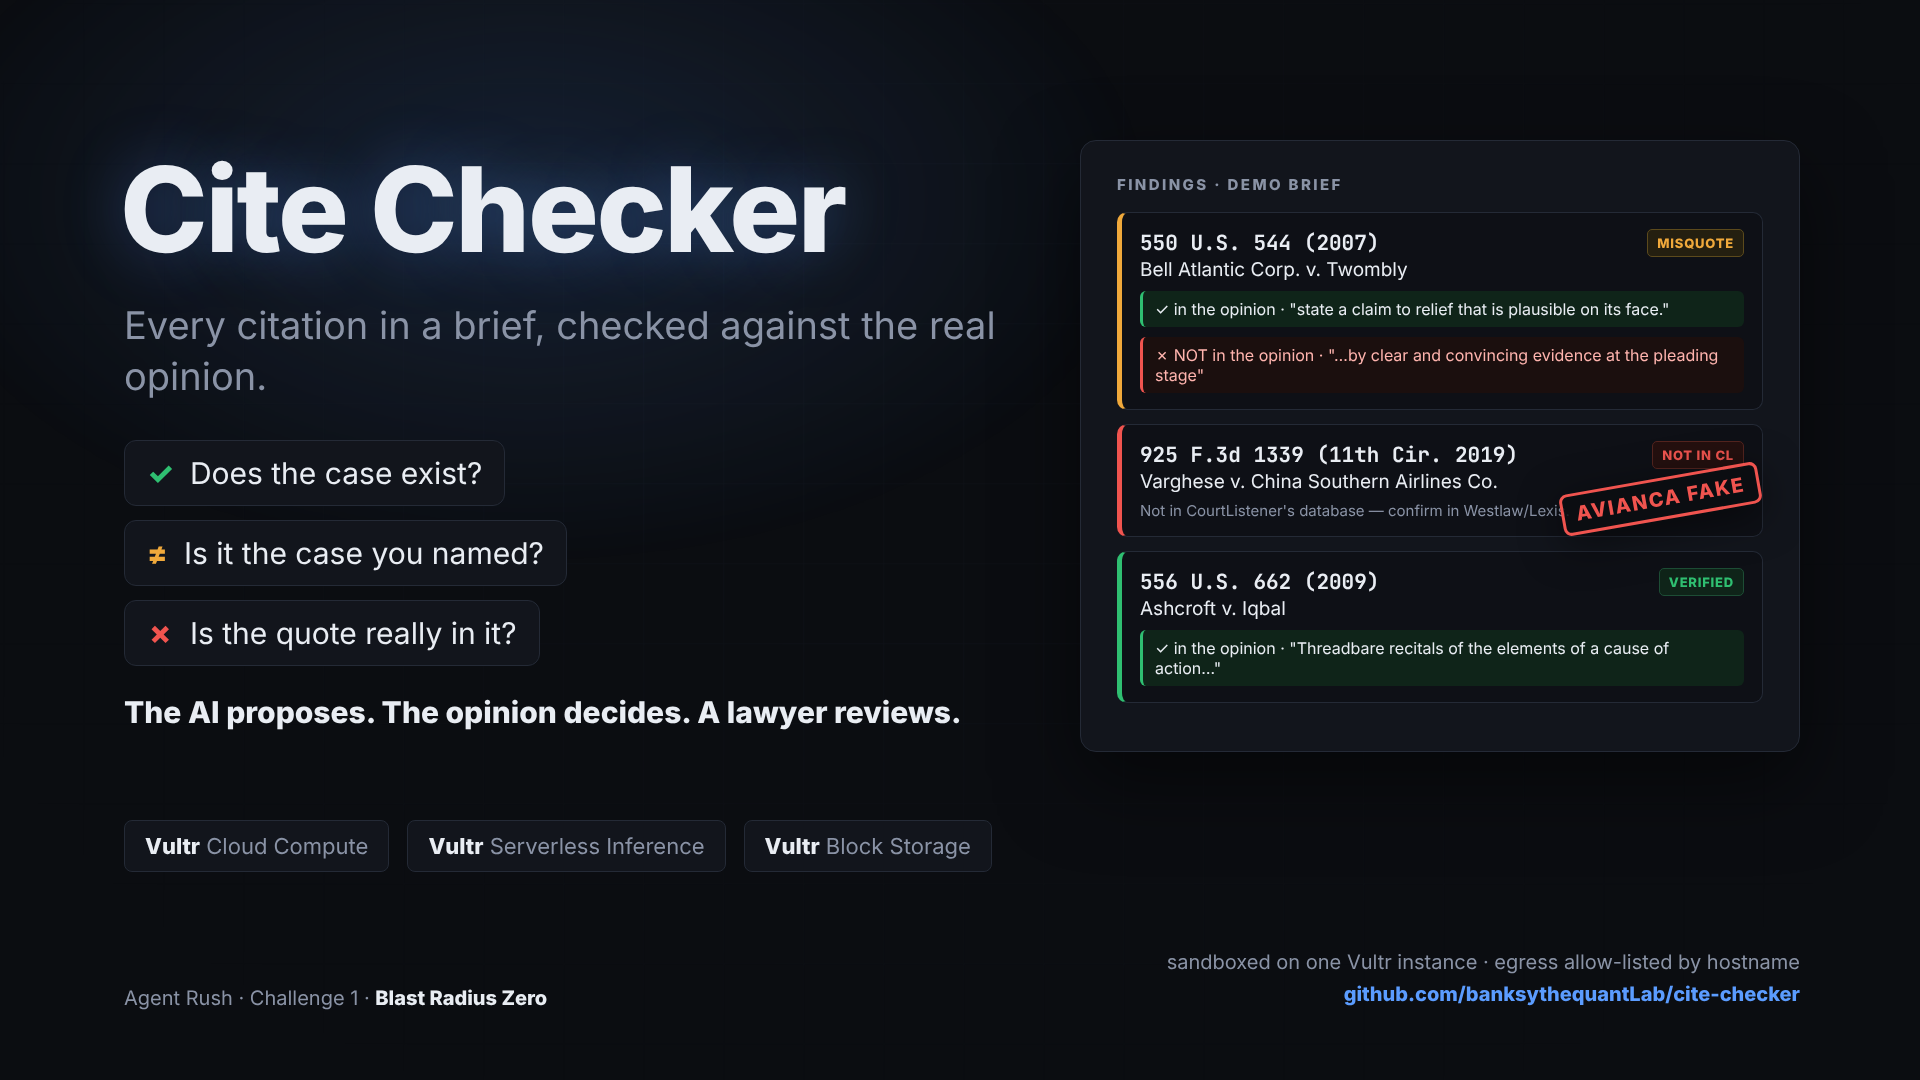
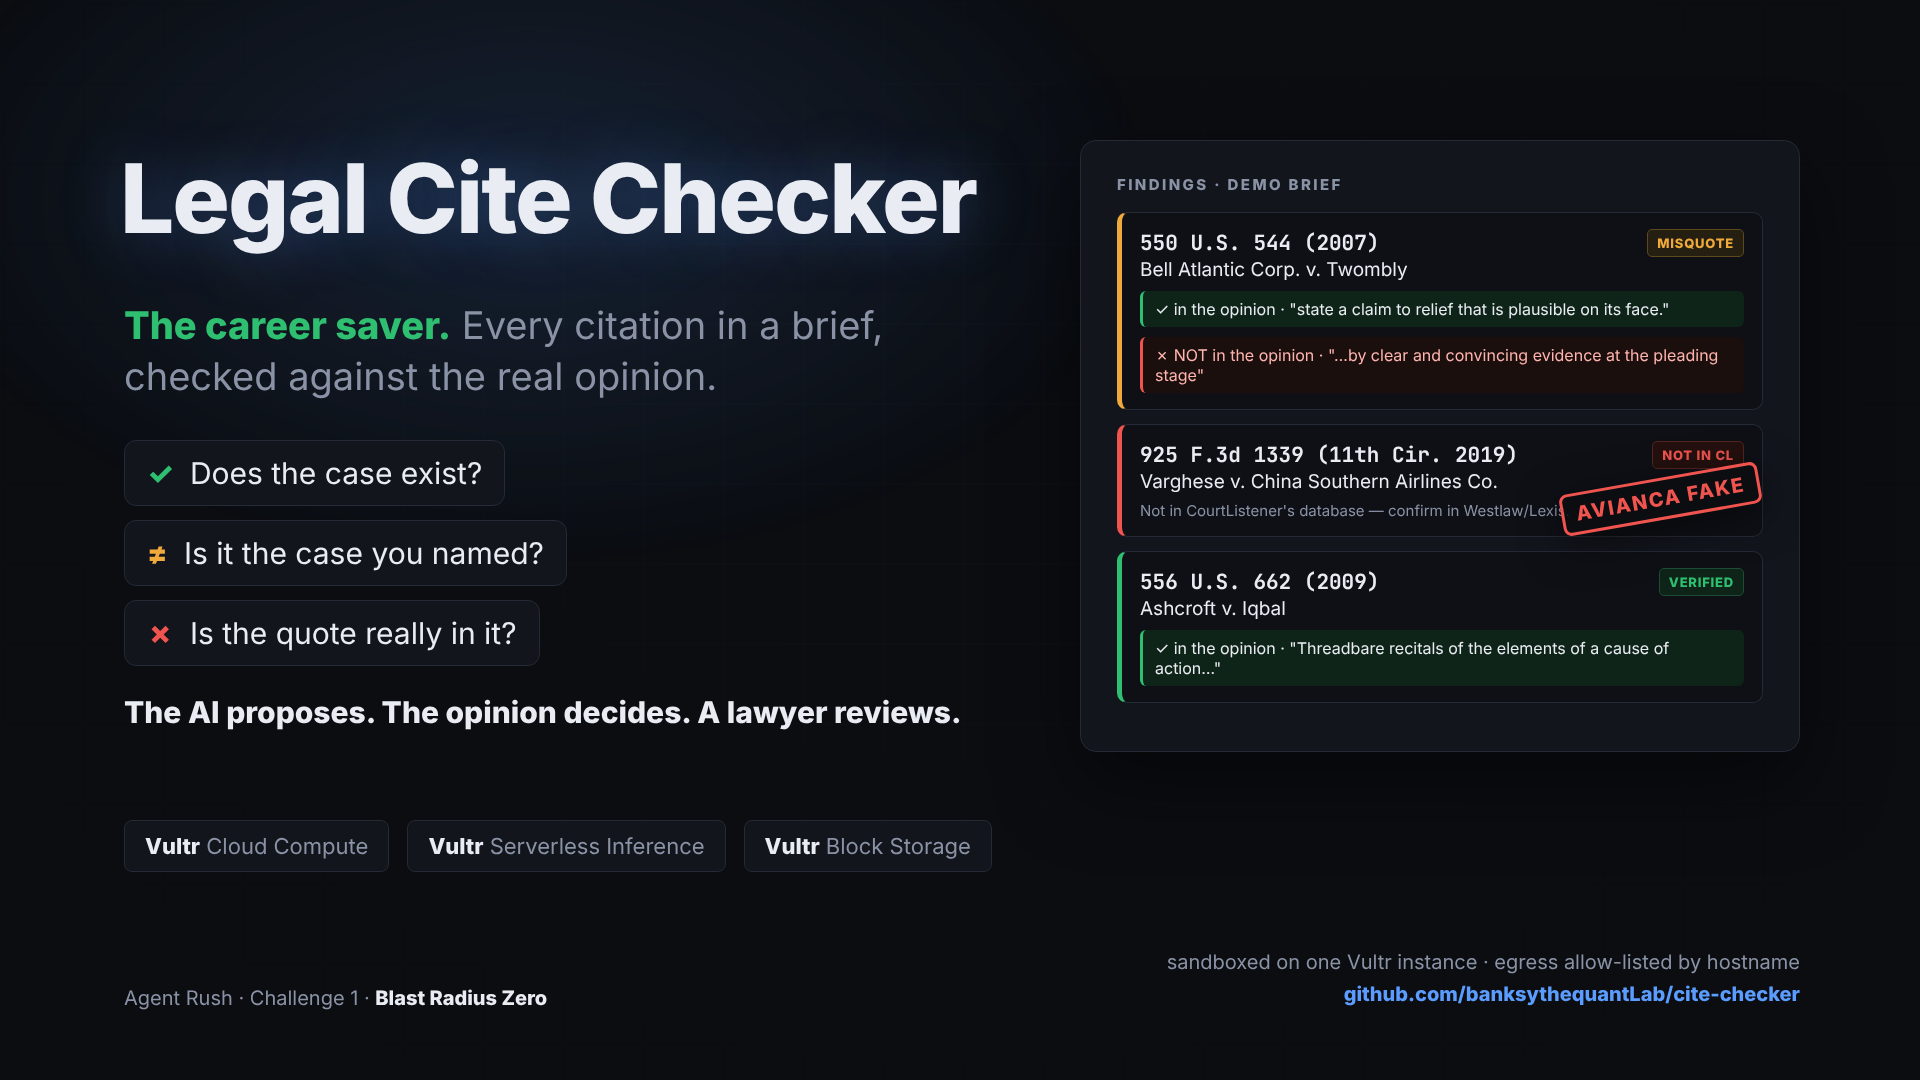
Rename to Legal Cite Checker (the career saver); light/dark theme toggle
Claude-Session: https://claude.ai/code/session_011e1en8GdjJwi9dHnhqS9BS

Changed region(s): [[0.0625, 0.1528, 0.5312, 0.2444], [0.0625, 0.275, 0.5312, 0.3667]]

diff --git a/ui/index.html b/ui/index.html
@@ -3,38 +3,44 @@
 <head>
 <meta charset="utf-8">
 <meta name="viewport" content="width=device-width, initial-scale=1">
-<title>Cite Checker — every citation in a brief, checked against the real opinion</title>
+<title>Legal Cite Checker — the career saver · every citation in a brief, checked against the real opinion</title>
 <meta name="description" content="Paste a brief. Every case cite is checked against the real opinion: does it exist, is it the case you named, is the quote really in it. The AI proposes, the opinion decides, a lawyer reviews.">
 <link rel="canonical" href="https://cite.nota.lawyer/">
 <meta property="og:type" content="website">
-<meta property="og:site_name" content="Cite Checker">
+<meta property="og:site_name" content="Legal Cite Checker">
 <meta property="og:url" content="https://cite.nota.lawyer/">
-<meta property="og:title" content="Cite Checker — every citation in a brief, checked against the real opinion">
+<meta property="og:title" content="Legal Cite Checker — the career saver">
 <meta property="og:description" content="Does the case exist? Is it the case you named? Is the quote really in it? One click runs a demo brief seeded with the Avianca fabrications.">
 <meta property="og:image" content="https://cite.nota.lawyer/og.png">
 <meta property="og:image:width" content="1200">
 <meta property="og:image:height" content="630">
-<meta property="og:image:alt" content="Cite Checker: findings for a demo brief — a misquote, a citation not in the database, a verified quote">
+<meta property="og:image:alt" content="Legal Cite Checker: findings for a demo brief — a misquote, a citation not in the database, a verified quote">
 <meta name="twitter:card" content="summary_large_image">
-<meta name="twitter:title" content="Cite Checker — every citation in a brief, checked against the real opinion">
+<meta name="twitter:title" content="Legal Cite Checker — the career saver">
 <meta name="twitter:description" content="Does the case exist? Is it the case you named? Is the quote really in it? Try the one-click demo.">
 <meta name="twitter:image" content="https://cite.nota.lawyer/og.png">
 <style>
 :root{--bg:#0b0d11;--panel:#12151c;--panel2:#171b24;--line:#242a36;--ink:#e9edf3;--dim:#8a93a6;
   --accent:#5b9cff;--ok:#2fbf71;--warn:#f0a93b;--bad:#f0544f;--gold:#d8b25a;
-  --mono:ui-monospace,SFMono-Regular,Menlo,Consolas,monospace}
+  --mono:ui-monospace,SFMono-Regular,Menlo,Consolas,monospace;
+  --field:#0e1016;--okbg:#0f2419;--okline:#1d4d35;--badbg:#24100f;--badline:#53241f;--warnbg:#241f10;--warnline:#5c4a1c;--accbg:#0d1626;--accline:#1e3a66;
+  --btn:#14284a;--btnink:#cfe0ff;--btnline:#1e3a66;--quotebad:#ffb4ae;color-scheme:dark}
+:root[data-theme="light"]{--bg:#f6f7fa;--panel:#ffffff;--panel2:#eef1f6;--line:#d9dee8;--ink:#15181f;--dim:#5b6472;
+  --accent:#2563eb;--ok:#15803d;--warn:#b45309;--bad:#dc2626;--gold:#92400e;
+  --field:#ffffff;--okbg:#ecfdf3;--okline:#86efac;--badbg:#fef2f2;--badline:#fca5a5;--warnbg:#fffbeb;--warnline:#fcd34d;--accbg:#eff6ff;--accline:#93c5fd;
+  --btn:#2563eb;--btnink:#ffffff;--btnline:#1d4ed8;--quotebad:#991b1b;color-scheme:light}
 *{box-sizing:border-box}
 body{margin:0;background:var(--bg);color:var(--ink);font:14px/1.55 -apple-system,BlinkMacSystemFont,"Segoe UI",Inter,sans-serif}
 header{padding:16px 24px;border-bottom:1px solid var(--line);background:var(--panel);display:flex;gap:14px;align-items:center;flex-wrap:wrap}
 h1{margin:0;font-size:15px;letter-spacing:.12em;text-transform:uppercase;font-weight:700}
 h1 em{color:var(--dim);font-weight:400;text-transform:none;letter-spacing:.01em;font-size:12.5px;margin-left:8px;font-style:normal}
 .pill{font:600 10.5px/1 var(--mono);padding:5px 9px;border-radius:99px;border:1px solid var(--line);color:var(--dim)}
-.pill.on{color:var(--ok);border-color:#1d4d35;background:#0f2419}.pill.off{color:var(--bad);border-color:#53241f;background:#24100f}
+.pill.on{color:var(--ok);border-color:var(--okline);background:var(--okbg)}.pill.off{color:var(--bad);border-color:var(--badline);background:var(--badbg)}
 main{max-width:1120px;margin:0 auto;padding:22px 24px;display:grid;grid-template-columns:minmax(0,440px) minmax(0,1fr);gap:20px}
 @media(max-width:920px){main{grid-template-columns:1fr}}
 h2{font-size:11px;letter-spacing:.11em;text-transform:uppercase;color:var(--dim);font-weight:700;margin:0 0 10px}
-textarea{width:100%;height:360px;background:#0e1016;color:var(--ink);border:1px solid var(--line);border-radius:8px;padding:11px;font:12px/1.5 var(--mono);resize:vertical}
-button{font:600 12.5px/1 inherit;padding:9px 14px;border-radius:7px;cursor:pointer;background:#14284a;color:#cfe0ff;border:1px solid #1e3a66}
+textarea{width:100%;height:360px;background:var(--field);color:var(--ink);border:1px solid var(--line);border-radius:8px;padding:11px;font:12px/1.5 var(--mono);resize:vertical}
+button{font:600 12.5px/1 inherit;padding:9px 14px;border-radius:7px;cursor:pointer;background:var(--btn);color:var(--btnink);border:1px solid var(--btnline)}
 button:hover{border-color:var(--accent)}button:disabled{opacity:.45;cursor:default}
 button.ghost{background:var(--panel2);color:var(--ink);border:1px solid var(--line)}
 .row{display:flex;gap:10px;align-items:center;flex-wrap:wrap}
@@ -42,15 +48,15 @@ button.ghost{background:var(--panel2);color:var(--ink);border:1px solid var(--li
 .card.VERIFIED{border-left-color:var(--ok)}.card.UNQUOTED{border-left-color:var(--accent)}
 .card.MISQUOTE,.card.WRONG_CASE{border-left-color:var(--warn)}.card.NOT_FOUND{border-left-color:var(--bad)}.card.AMBIGUOUS{border-left-color:var(--dim)}
 .badge{display:inline-block;font:700 10px/1 var(--mono);padding:4px 8px;border-radius:4px;border:1px solid var(--line);letter-spacing:.06em}
-.badge.VERIFIED{color:var(--ok);border-color:#1d4d35;background:#0f2419}
-.badge.UNQUOTED{color:var(--accent);border-color:#1e3a66;background:#0d1626}
-.badge.MISQUOTE,.badge.WRONG_CASE{color:var(--warn);border-color:#5c4a1c;background:#241f10}
-.badge.NOT_FOUND{color:var(--bad);border-color:#53241f;background:#24100f}
+.badge.VERIFIED{color:var(--ok);border-color:var(--okline);background:var(--okbg)}
+.badge.UNQUOTED{color:var(--accent);border-color:var(--accline);background:var(--accbg)}
+.badge.MISQUOTE,.badge.WRONG_CASE{color:var(--warn);border-color:var(--warnline);background:var(--warnbg)}
+.badge.NOT_FOUND{color:var(--bad);border-color:var(--badline);background:var(--badbg)}
 .badge.AMBIGUOUS{color:var(--dim)}
 .cite{font:700 13px/1.3 var(--mono)}.name{color:var(--ink)}.cl{color:var(--gold);font:12px/1.4 var(--mono)}
-.q{border-left:3px solid var(--ok);padding:6px 10px;margin:6px 0;background:#0f2419;border-radius:0 5px 5px 0;font:12px/1.45 var(--mono)}
-.q.bad{border-left-color:var(--bad);background:#1b0f0e;color:#ffb4ae}
-.q.sup{border-left-color:var(--accent);background:#0d1626}
+.q{border-left:3px solid var(--ok);padding:6px 10px;margin:6px 0;background:var(--okbg);border-radius:0 5px 5px 0;font:12px/1.45 var(--mono)}
+.q.bad{border-left-color:var(--bad);background:var(--badbg);color:var(--quotebad)}
+.q.sup{border-left-color:var(--accent);background:var(--accbg)}
 .note{color:var(--dim);font-size:12px;margin:4px 0}
 .kpis{display:flex;gap:8px;flex-wrap:wrap;margin-bottom:12px}
 .kpi{background:var(--panel);border:1px solid var(--line);border-radius:8px;padding:10px 14px;min-width:96px}
@@ -61,9 +67,10 @@ a{color:var(--accent)}
 </head>
 <body>
 <header>
-  <h1>Cite Checker <em>every citation, checked against the real opinion</em></h1>
+  <h1>Legal Cite Checker <em>the career saver · every citation, checked against the real opinion</em></h1>
   <span class="pill" id="p-cl">CourtListener · …</span>
   <span class="pill" id="p-model">model · …</span>
+  <button class="ghost" id="theme" title="Switch light / dark" style="margin-left:auto;padding:6px 10px;font-size:12px">☀ light</button>
 </header>
 <main>
   <section>
@@ -92,6 +99,11 @@ a{color:var(--accent)}
 </main>
 <script>
 const q=s=>document.querySelector(s);
+(function(){const root=document.documentElement;let t=null;try{t=localStorage.getItem('theme');}catch(e){}
+  if(!t)t=matchMedia('(prefers-color-scheme: light)').matches?'light':'dark';
+  const apply=v=>{root.dataset.theme=v;const b=q('#theme');if(b)b.textContent=v==='light'?'☾ dark':'☀ light';};
+  apply(t);
+  addEventListener('DOMContentLoaded',()=>{apply(root.dataset.theme);q('#theme').onclick=()=>{const v=root.dataset.theme==='light'?'dark':'light';apply(v);try{localStorage.setItem('theme',v);}catch(e){}};});})();
 const esc=s=>String(s==null?'':s).replace(/[&<>"]/g,c=>({'&':'&amp;','<':'&lt;','>':'&gt;','"':'&quot;'}[c]));
 const LABEL={NOT_FOUND:'NOT IN CL',WRONG_CASE:'WRONG CASE',MISQUOTE:'MISQUOTE',AMBIGUOUS:'AMBIGUOUS',UNQUOTED:'UNQUOTED',VERIFIED:'VERIFIED',UNVERIFIABLE:'UNVERIFIABLE'};
 const label=s=>LABEL[s]||String(s).replace('_',' ');

diff --git a/cite/app.py b/cite/app.py
@@ -22,7 +22,7 @@ import verify                   # noqa: E402
 from inference import Vultr     # noqa: E402
 
 UI = HERE.parent / "ui" / "index.html"
-app = FastAPI(title="Cite Checker")
+app = FastAPI(title="Legal Cite Checker")
 inf = Vultr()
 
 

diff --git a/README.md b/README.md
@@ -1,4 +1,4 @@
-# Cite Checker
+# Legal Cite Checker — the career saver
 
 **Every citation in a brief, checked against the real opinion. The AI proposes; the opinion decides; a lawyer reviews every flag.**
 
